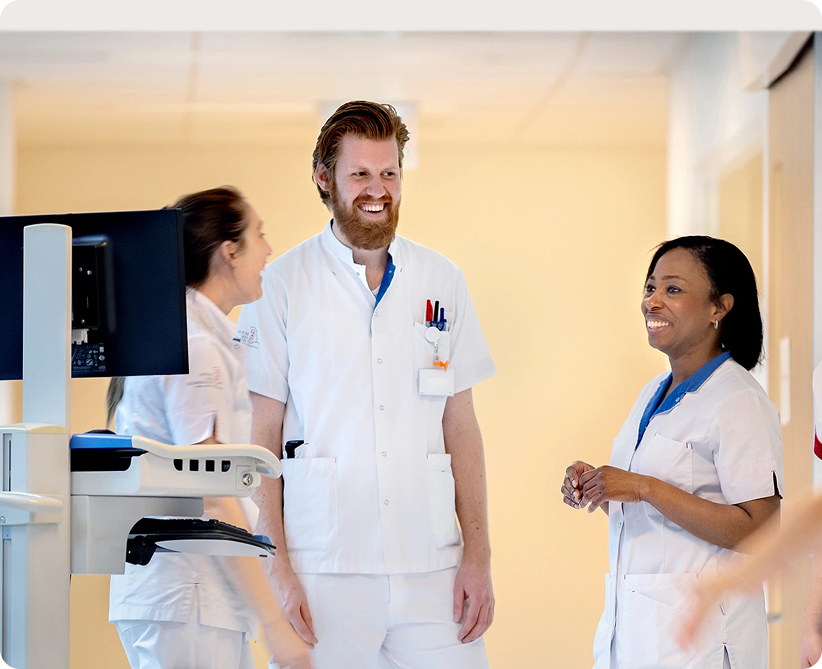
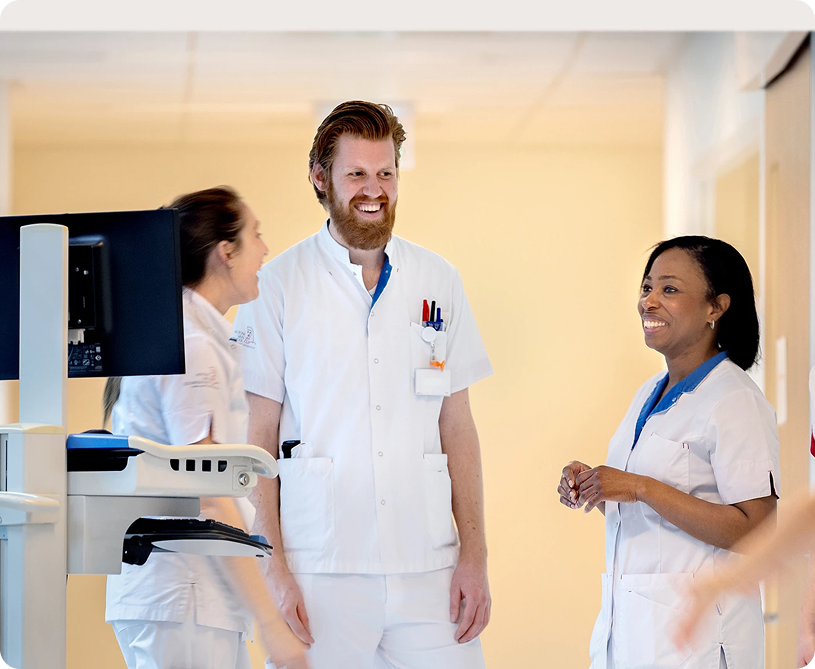
doctors united white spacing
white spacing fix for the doctors united fix and layout correction.

diff --git a/src/lib/Pages/Home/Constructions/doctors-united.svelte b/src/lib/Pages/Home/Constructions/doctors-united.svelte
@@ -49,6 +49,7 @@
   .image-wrapper img:nth-child(2) {
     display: none;
     width: 22.313em;
+    object-fit: cover;
   }
 
   .doctors-large-screen {
@@ -128,7 +129,7 @@
 
   @container (min-width: 64em) {
     .doctors-container #doctors-united {
-      padding: 4em;
+      padding: 0 7em;
     }
     .doctors-container h2  {
       font-size: 2.5rem;
@@ -141,8 +142,12 @@
   }
 
   @container (min-width: 89em) {
+    .doctors-container {
+      width: 90vw;
+    }
     .doctors-container #doctors-united {
-      grid-template-columns: 47.75em 38.75em;
+      grid-template-columns: 0.7fr 1fr;
+      grid-template-rows: 550px;
     }
   }
 </style>
